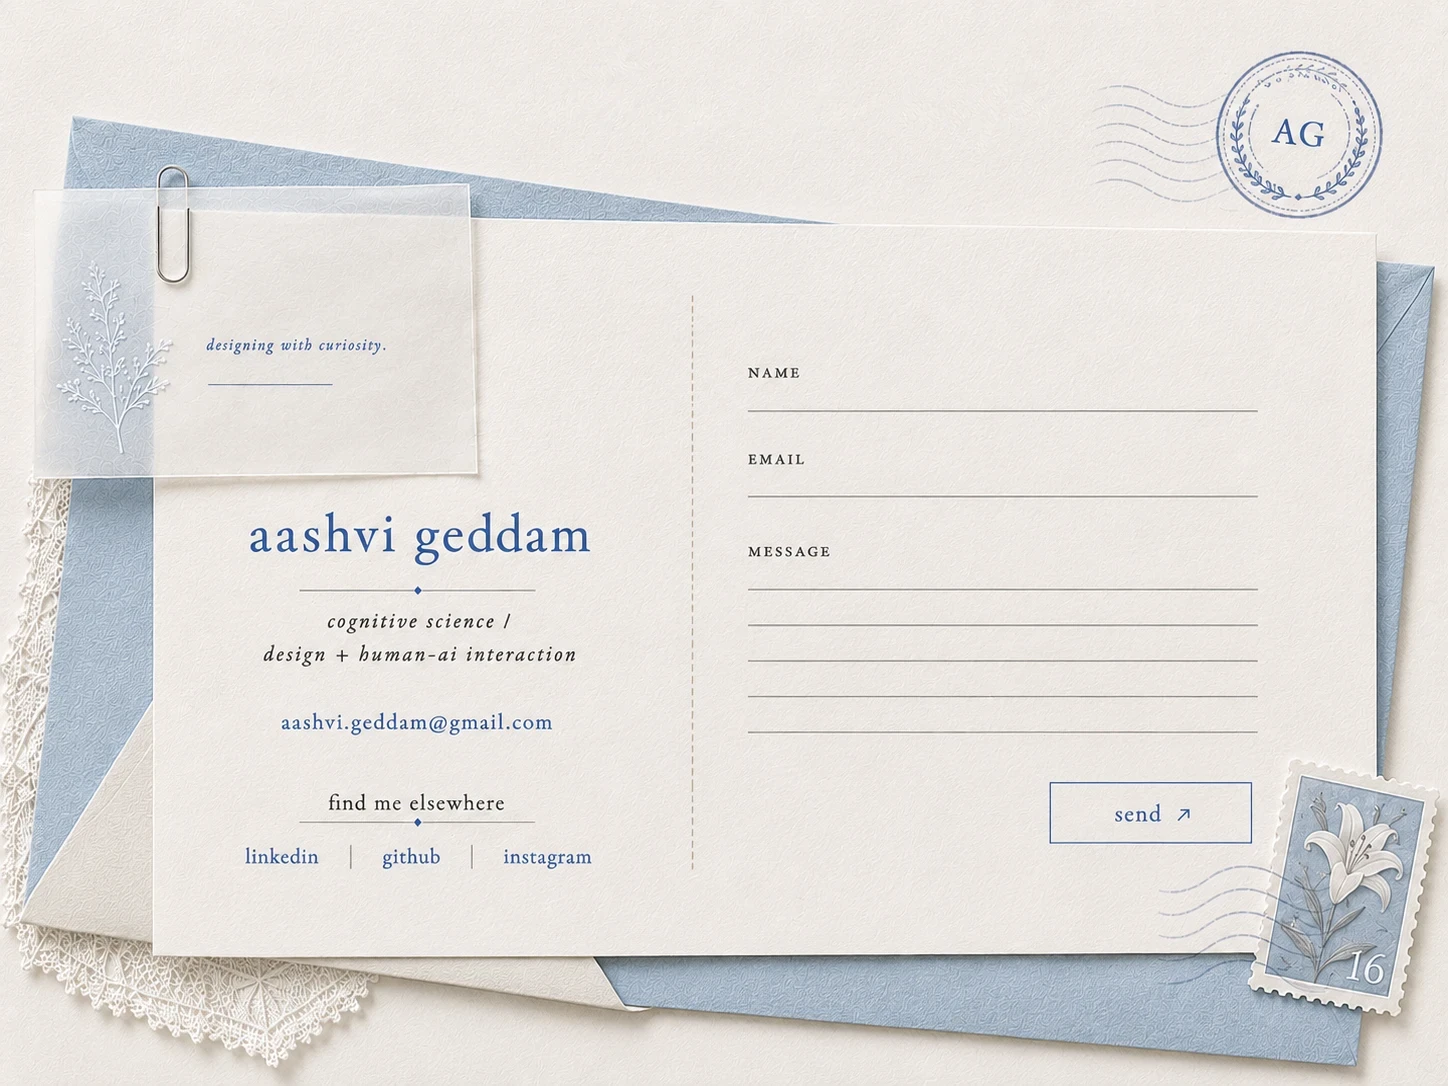
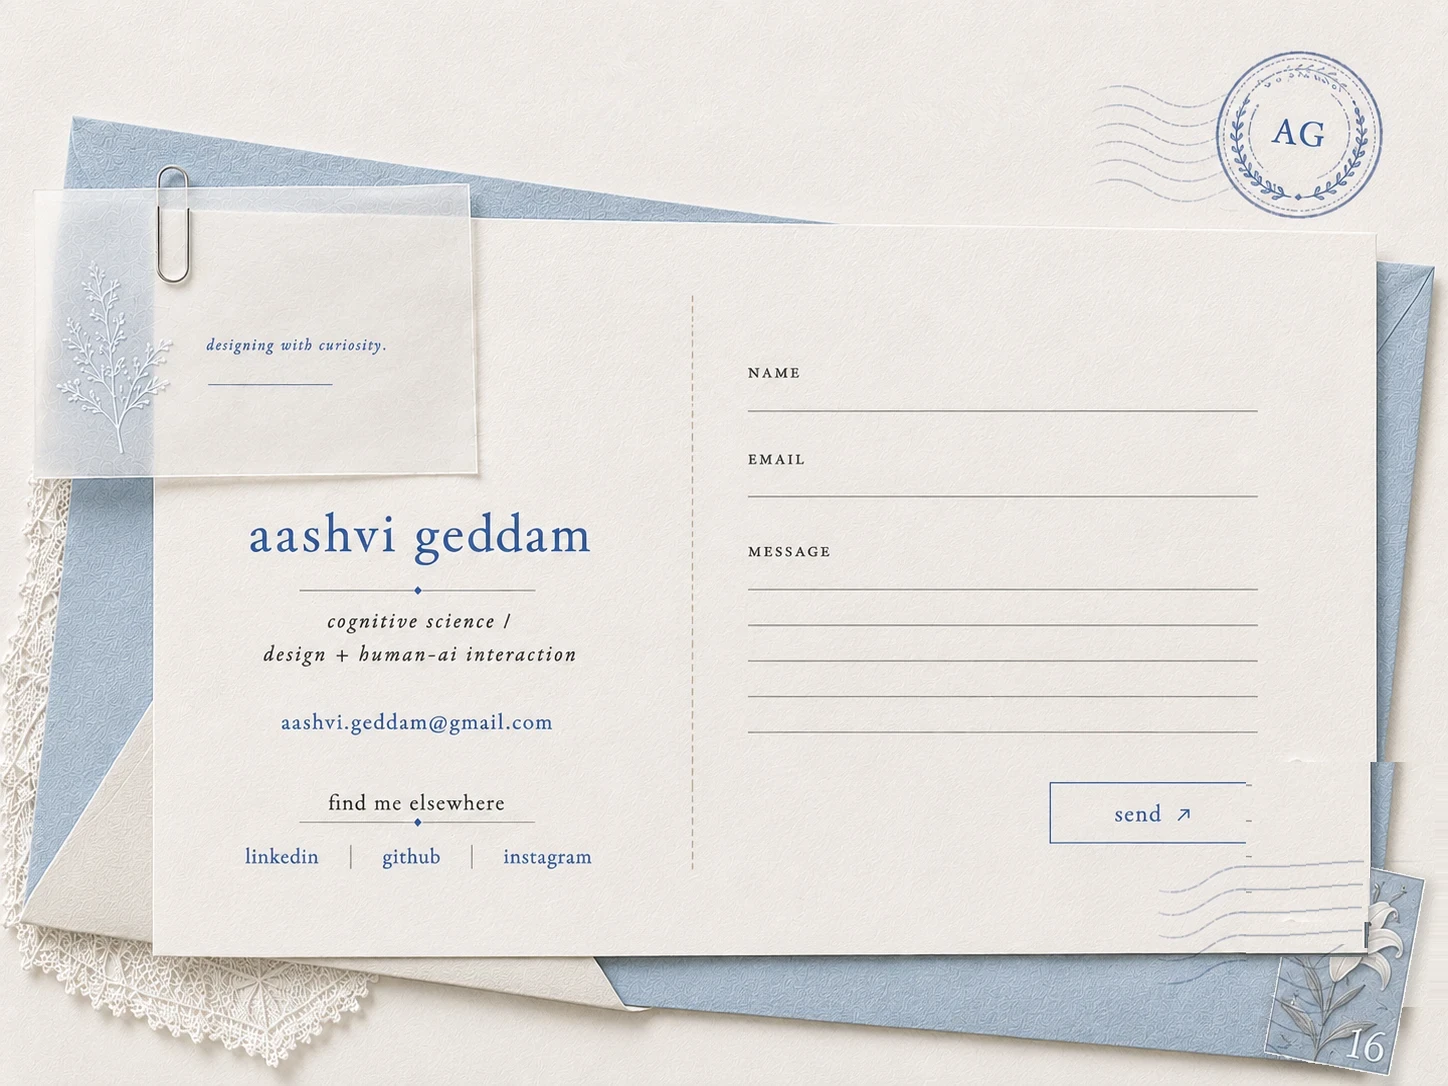
Let's Chat: bigger and lower, stamp tucked under the card
The postcard canvas comes up to 84% and sits 45px lower; the script
heading moves up and left. The lily stamp now slips UNDER the
postcard: it slides 78px down the artwork so about a quarter of it
lies beneath the card's bottom-right corner, the corner itself is
rebuilt over it (surface, both edge lines, and their shade on the
stamp), and the cancellation lines are carried across the rebuilt
corner along their own measured paths. The composition's side-band
blend now feathers per row beyond the last real content, so pale
areas like the envelope's highlights can no longer be mistaken for
backdrop and washed out.

Claude-Session: https://claude.ai/code/session_01HwHnB6ZvdvjAvLg4jAqUHh

Changed region(s): [[0.8391, 0.6989, 1.0, 1.0]]

diff --git a/index.html b/index.html
@@ -913,7 +913,7 @@ function fit(){
   /* the postcard sits a touch smaller and lower than the other pages'
      canvases, with the page's own cream showing around it */
   if (cc) cc.style.transform =
-    "translate(-50%, calc(-50% + 30px)) scale(" + (a * 0.78) + ")";
+    "translate(-50%, calc(-50% + 45px)) scale(" + (a * 0.84) + ")";
 }
 addEventListener("resize", fit); fit();
 
@@ -1304,7 +1304,7 @@ if (workCanvas) {
    so this one set of measurements lands the visitor's writing on the
    printed rules in either layout. */
 const CT_ART = {
-  head: {x: 405, y: 30, w: 685, h: 140, fs: 126},  /* the live script heading */
+  head: {x: 370, y: 14, w: 685, h: 140, fs: 126},  /* the live script heading */
   name: {x: 748, y: 410.5, w: 509},          /* the rule each field writes on */
   email:{x: 748, y: 496.5, w: 509},
   msg:  {x: 748, y: 589,   w: 509, step: 35.6, lines: 5},
